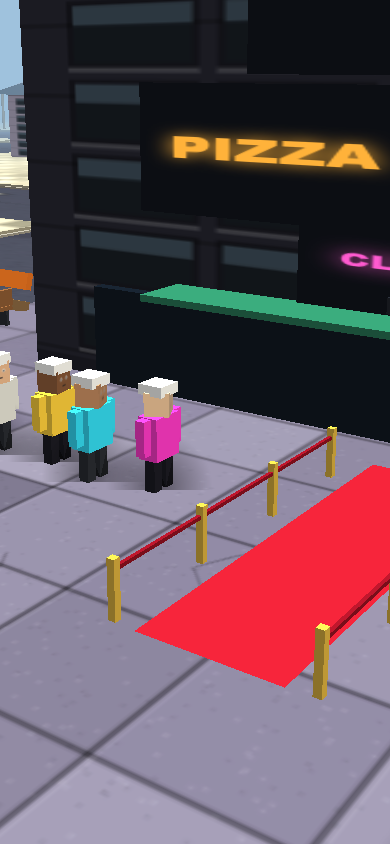
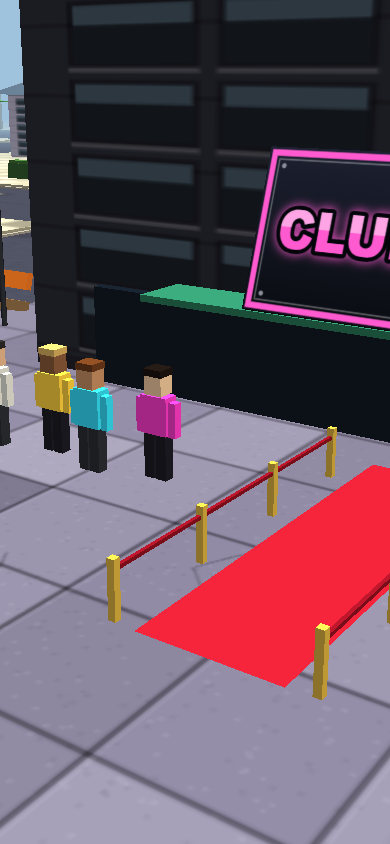
perf(décor): file d'attente du club en un seul maillage (vue du club : 246 → 143 appels de rendu)

diff --git a/index.html b/index.html
@@ -4928,14 +4928,19 @@ function mkNeonVivant(){
     const tapis=new THREE.Mesh(new THREE.PlaneGeometry(2.2,7),mat(0xb01a2a)); tapis.rotation.x=-Math.PI/2; tapis.position.set(p.x,0.235,p.z+3.6); scene.add(tapis);
     for(const s of [-1,1]) for(let k=0;k<4;k++){ const z=p.z+1+k*2; mkBox(0.12,0.9,0.12,mat(0xd8b040),p.x+s*1.5,0.67,z);
       if(k<3){ const c=mkBox(0.06,0.06,2,mat(0x8a1020),p.x+s*1.5,0.95,z+1); } }
+    // file d'attente et videur : silhouettes en blocs, UN seul maillage (mesuré : 8 personnages
+    // complets ajoutaient ~125 appels de rendu à la vue du club)
     const tenues=[[0xff3bd0,0x1c1c24],[0x35e0ff,0x2a2d34],[0xffd23f,0x1c1c24],[0xe8e8e2,0x2a2d34],[0x8a4de0,0x14141a],[0x2f8a4a,0x1c1c24],[0xd83a3a,0x2a2d34]];
-    const peaux=[0xf0c8a0,0xc68e64,0x8a5a3a,0xe8b890];
-    tenues.forEach(([haut,bas],k)=>{ const hm=makeHumain({haut,bas,peau:peaux[k%4]},1); const x=p.x-3.6-k*1.15, z=p.z+3.2+(k%2)*0.35;
-      hm.g.position.set(x,0.22,z); hm.g.rotation.y=Math.PI/2; scene.add(hm.g); addSolid({x,z,hw:0.3,hd:0.3,h:1.8});
-      NEON.file.push({h:hm,ph:k*0.9}); });
-    const videur=makeHumain({haut:0x14141a,bas:0x14141a,peau:0x8a5a3a},1.15); videur.g.position.set(p.x+2.4,0.22,p.z+1.6); videur.g.scale.setScalar(1.15); scene.add(videur.g);
-    videur.brasG.rotation.x=-1.2; videur.brasD.rotation.x=-1.2; videur.brasG.rotation.z=0.6; videur.brasD.rotation.z=-0.6; // bras croisés
+    const peaux=[0xf0c8a0,0xc68e64,0x8a5a3a,0xe8b890], cheveux=[0x1c1410,0x6a3a1a,0xd8b060,0x2a2a2a];
+    const pieces=[];
+    const silhouette=(x,z,haut,bas,peau,chev,k)=>{ const s=k||1; pieces.push(
+      ['box',0.2*s,0.8*s,0.22*s,x-0.12*s,0.62*s,z,bas],['box',0.2*s,0.8*s,0.22*s,x+0.12*s,0.62*s,z,bas],
+      ['box',0.52*s,0.66*s,0.3*s,x,1.35*s,z,haut],['box',0.14*s,0.6*s,0.16*s,x-0.33*s,1.3*s,z,haut],['box',0.14*s,0.6*s,0.16*s,x+0.33*s,1.3*s,z,haut],
+      ['box',0.34*s,0.36*s,0.32*s,x,1.88*s,z,peau],['box',0.36*s,0.12*s,0.34*s,x,2.08*s,z,chev]); };
+    tenues.forEach(([haut,bas],k)=>{ const x=p.x-3.6-k*1.15, z=p.z+3.2+(k%2)*0.35; silhouette(x,z,haut,bas,peaux[k%4],cheveux[k%4],1); addSolid({x,z,hw:0.3,hd:0.3,h:1.8}); });
+    silhouette(p.x+2.4,p.z+1.6,0x14141a,0x14141a,0x8a5a3a,0x14141a,1.15); pieces.push(['box',0.6,0.12,0.2,p.x+2.4,1.55,p.z+1.85,0x14141a]); // videur, bras croisés
     addSolid({x:p.x+2.4,z:p.z+1.6,hw:0.4,hd:0.4,h:2});
+    const file=meshPieces(pieces); file.position.y=0.22; scene.add(file); NEON.fileMesh=file; NEON.nbFile=tenues.length;
     // 3) projecteurs qui balaient le ciel (la nuit)
     NEON.matFx=new THREE.MeshBasicMaterial({map:texGlow,color:0xd8ecff,transparent:true,opacity:0,depthWrite:false,blending:THREE.AdditiveBlending,side:THREE.DoubleSide});
     for(const s of [-1,1]){
@@ -4950,7 +4955,7 @@ function mkNeonVivant(){
 }
 function majNeonVivant(dt){
   const t=ETAT.runT||0, f=ETAT.nuitF||0;
-  for(const q of NEON.file){ q.ph+=dt*1.5; q.h.g.position.y=0.22+Math.abs(Math.sin(q.ph*2))*0.05; q.h.tete.rotation.y=Math.sin(q.ph*0.6)*0.5; } // on piétine, on regarde autour
+  if(NEON.fileMesh) NEON.fileMesh.position.y=0.22+Math.abs(Math.sin(t*3.2))*0.03; // la file piétine
   if(NEON.matFx){ NEON.matFx.opacity=0.32*f; for(const b of NEON.faisceaux) b.pivot.rotation.y=b.ph+t*0.5; }
 }
 /* ---------- VILLAS, INDUSTRIEL, BASE (DECOR_V2) ----------

diff --git a/scenarios.js b/scenarios.js
@@ -7963,7 +7963,7 @@ async function main() {
       const ne = await page.evaluate(() => {
         if (typeof NEON === 'undefined' || !NEON.matFx) return { off: true };
         const d = PORTES.find((q) => q.id === 'club'), j0 = ETAT.jour;
-        const o = { panneaux: NEON.panneaux, file: NEON.file.length, porteLibre: !solidAt(d.x, d.z + 1.2, 0.4) };
+        const o = { panneaux: NEON.panneaux, file: NEON.nbFile || 0, porteLibre: !solidAt(d.x, d.z + 1.2, 0.4) };
         ETAT.jour = 20; jourNuit(0); majNeonVivant(0.016); o.jour = NEON.matFx.opacity;
         ETAT.jour = 130; jourNuit(0); majNeonVivant(0.016); o.nuit = NEON.matFx.opacity;
         ETAT.jour = j0; jourNuit(0); return o;
